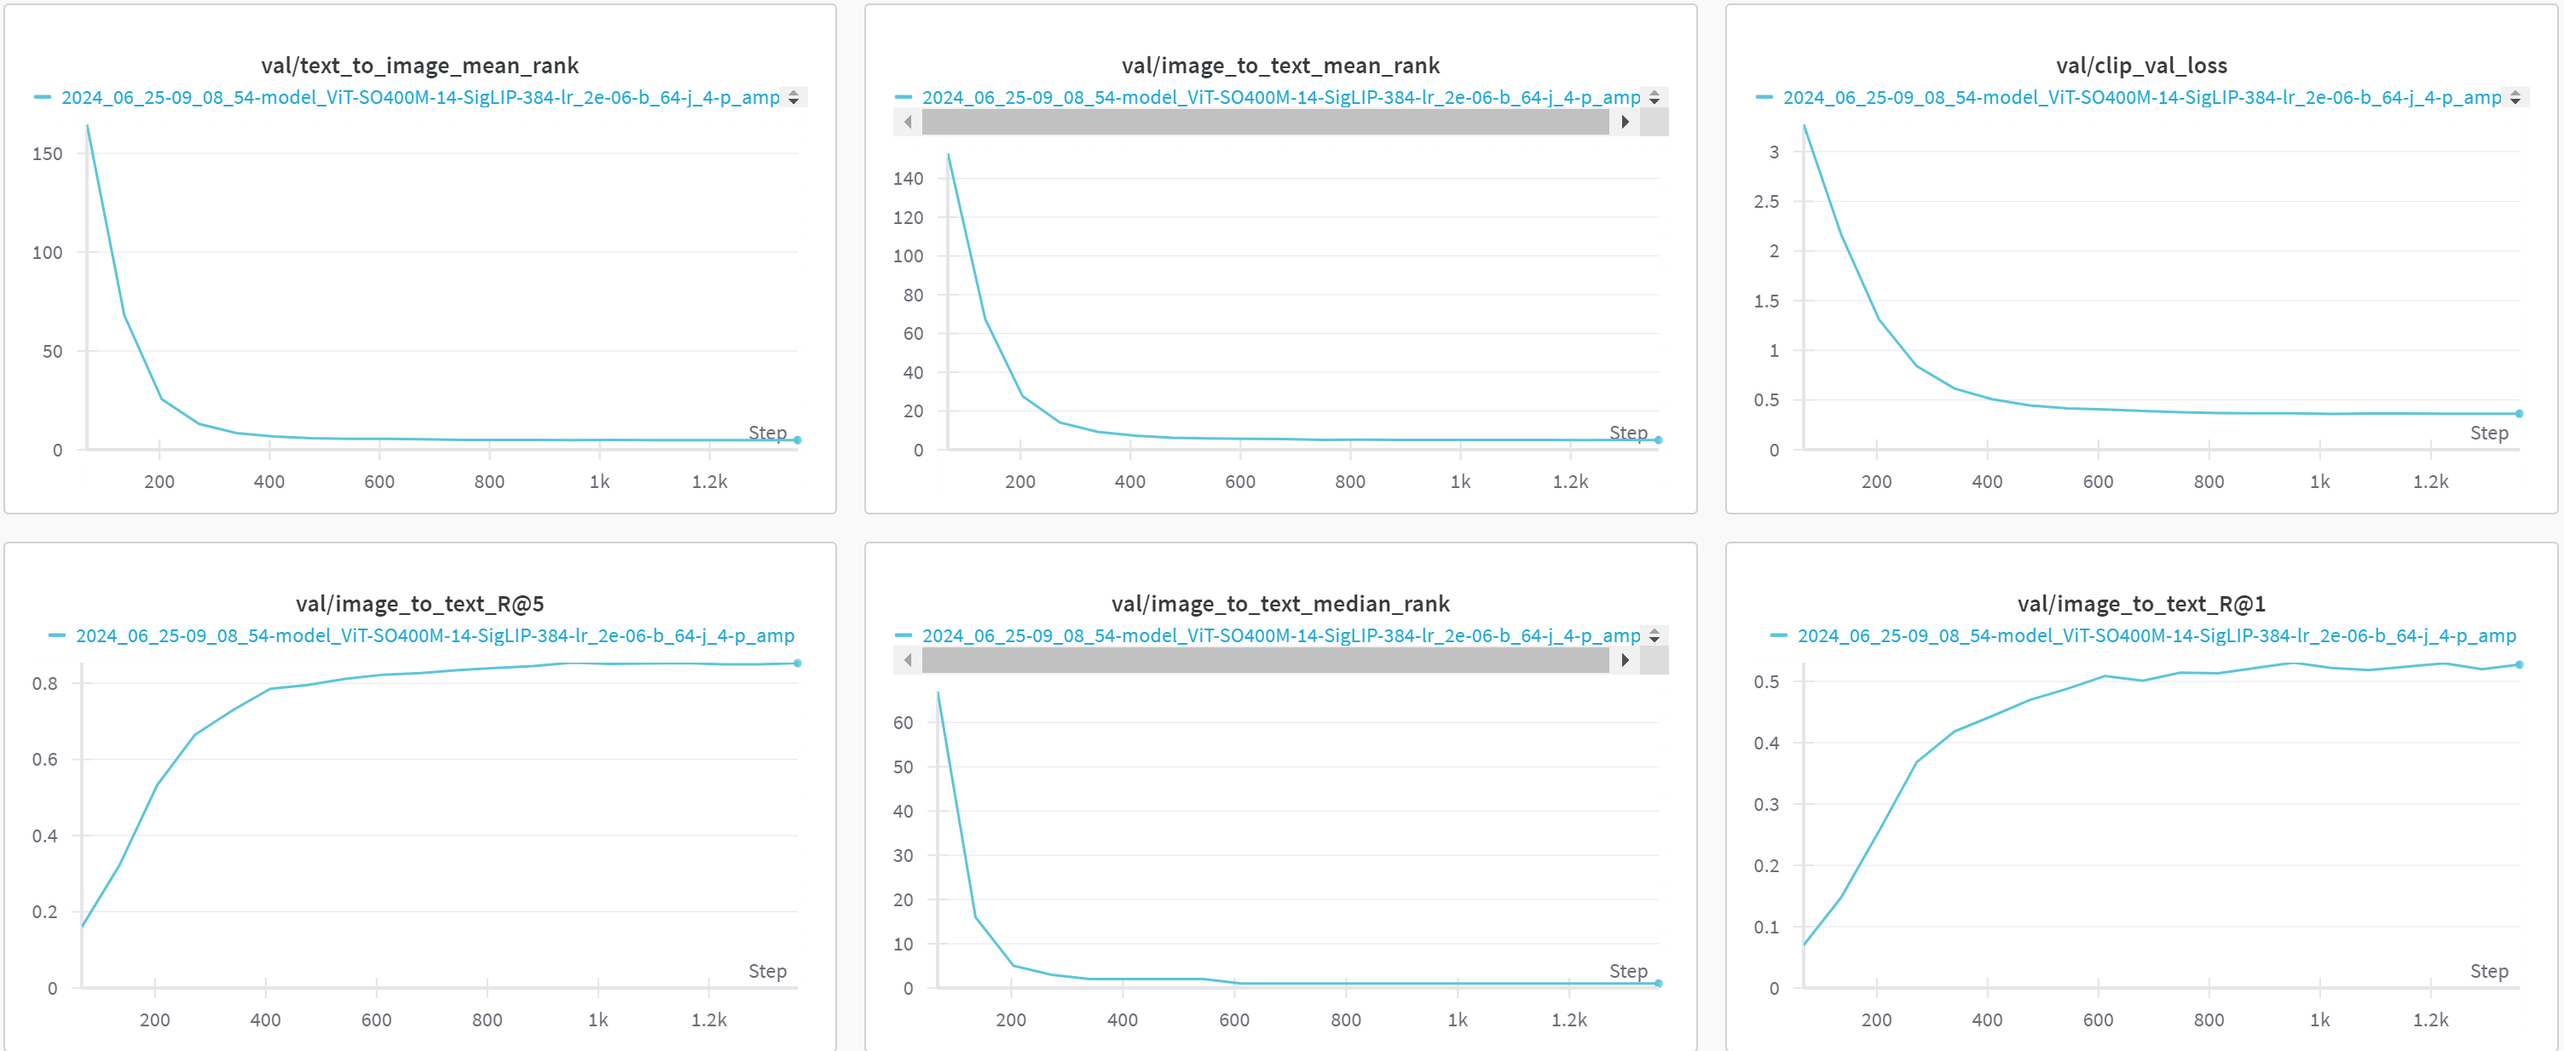
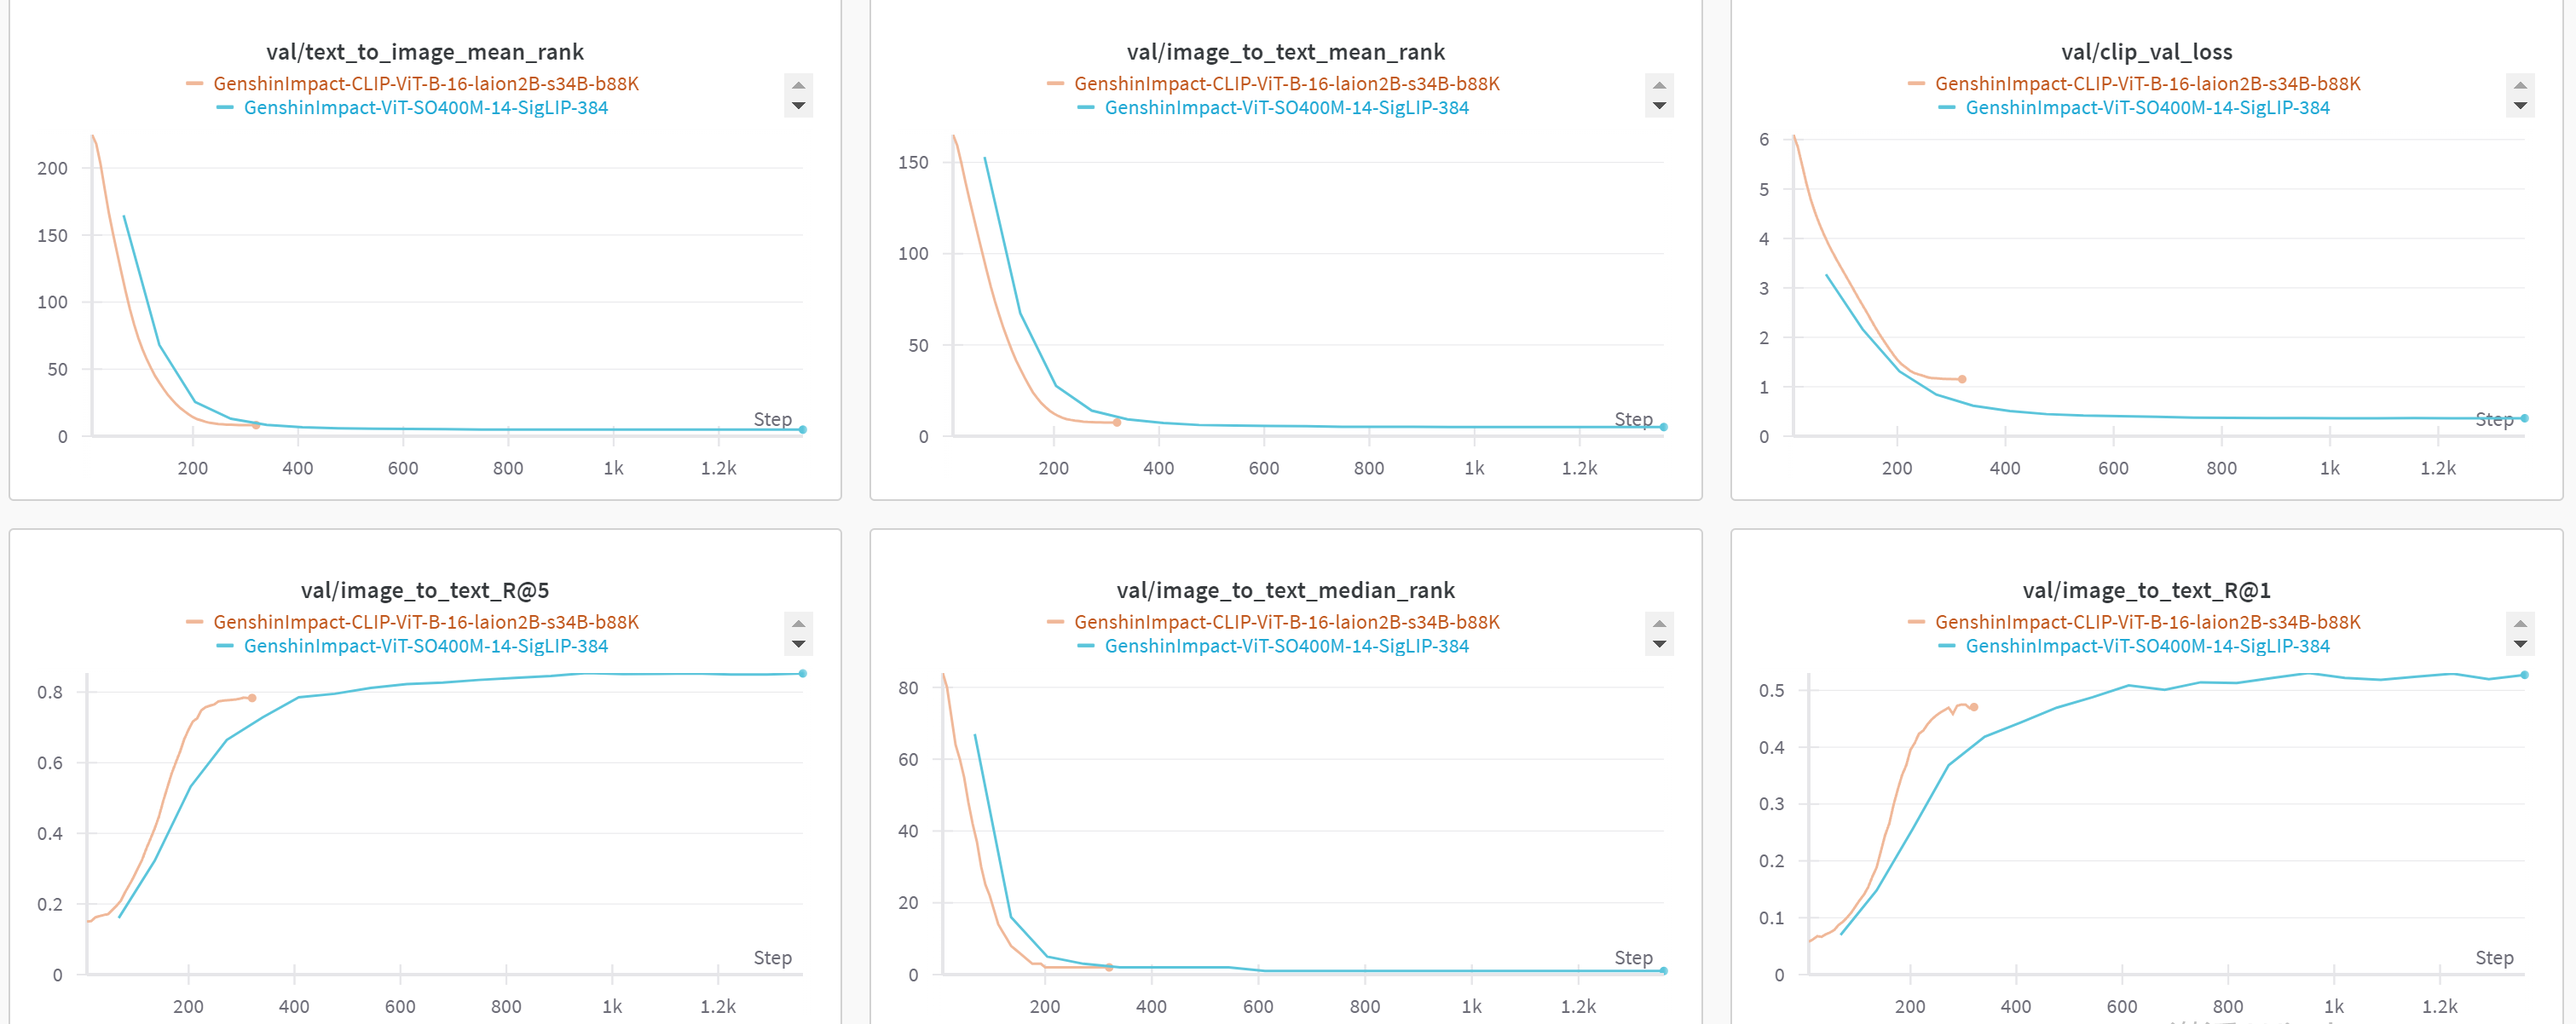
Add model

diff --git a/README.md b/README.md
@@ -1,13 +1,14 @@
 # GenshinCLIP
-A simple open-sourced SigLIP model fine-tuned on Genshin Impact's image-text pairs.
+Simple open-sourced CLIP models fine-tuned on Genshin Impact's image-text pairs.
 
-The model is far from being perfect, but could still offer some better text-image matching performance in some Genshin Impact scenarios.
+The models are far from being perfect, but could still offer some better text-image matching performance in some Genshin Impact scenarios.
 
 ## Model Link
 
-| Model Name                             | Link                                                                               |
-|----------------------------------------|------------------------------------------------------------------------------------|
-| GenshinImpact-ViT-SO400M-14-SigLIP-384 | [Huggingface](https://huggingface.co/mrzjy/GenshinImpact-ViT-SO400M-14-SigLIP-384) |
+| Model Name                                    | Link                                                                                      | Checkpoint Size | Val Loss |
+|-----------------------------------------------|-------------------------------------------------------------------------------------------|-----------------|----------|
+| GenshinImpact-CLIP-ViT-B-16-laion2B-s34B-b88K | [Huggingface](https://huggingface.co/mrzjy/GenshinImpact-CLIP-ViT-B-16-laion2B-s34B-b88K) | 0.59 GB         | 1.152    |
+| GenshinImpact-ViT-SO400M-14-SigLIP-384        | [Huggingface](https://huggingface.co/mrzjy/GenshinImpact-ViT-SO400M-14-SigLIP-384)        | 3.51 GB         | 0.362    |
 
 ## Case Study
 
